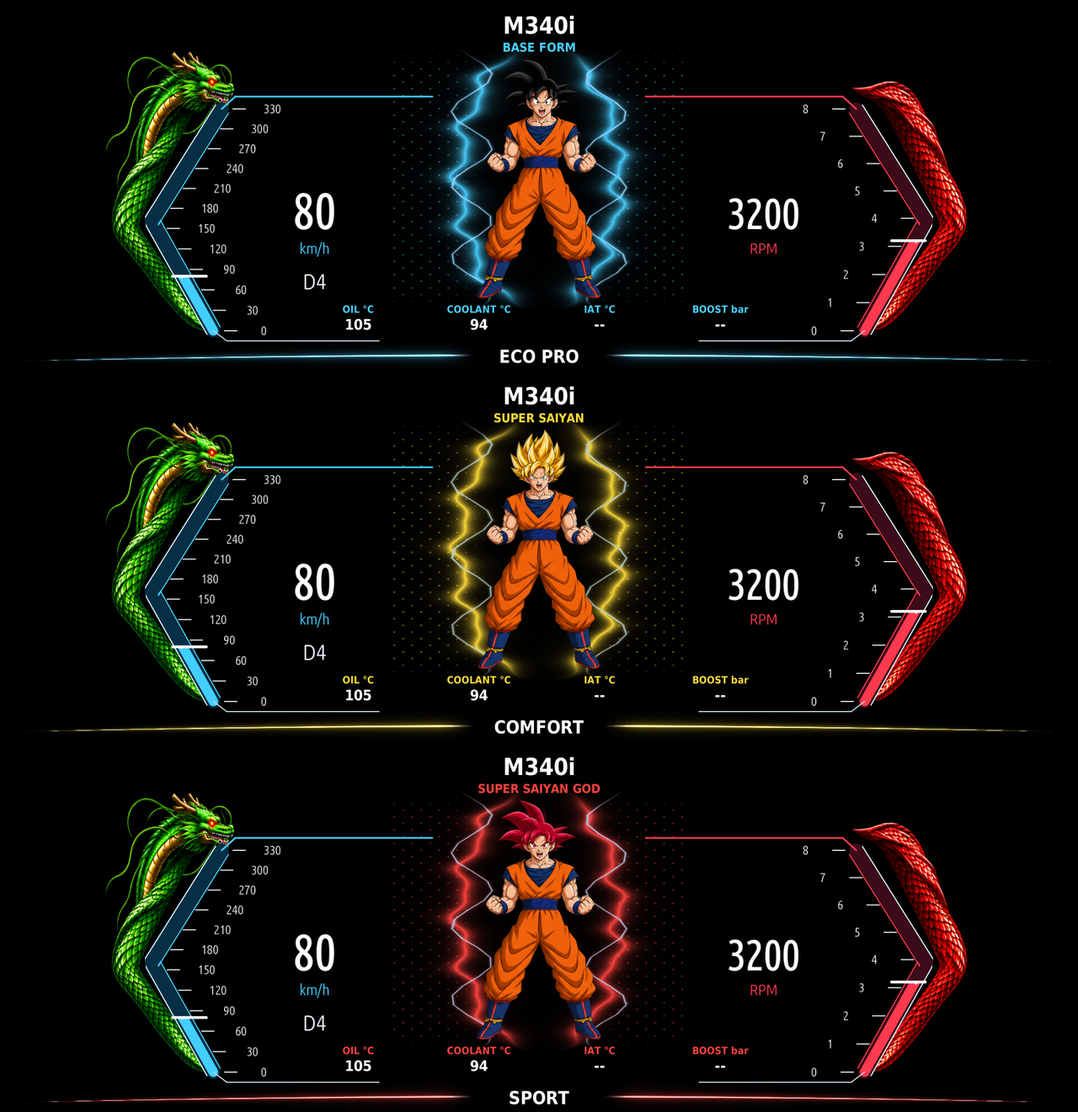
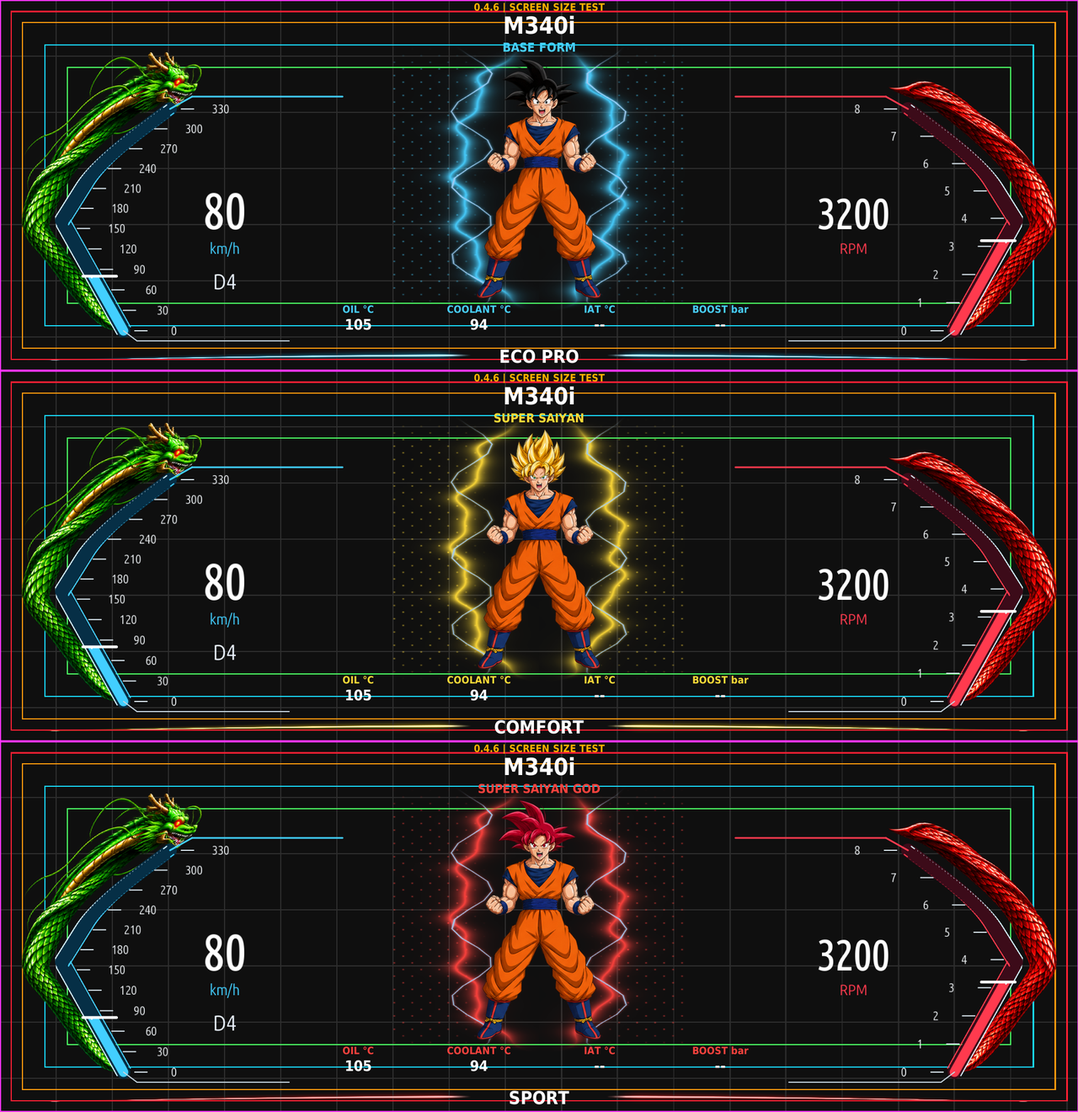
UPLOAD-TO-REPO

Changed region(s): [[0.0, 0.0, 1.0, 1.0], [0.7188, 0.0932, 0.75, 0.1242], [0.5, 0.7144, 0.5312, 0.7455]]

diff --git a/kit/tools/test_dragon_super.js b/kit/tools/test_dragon_super.js
@@ -12,16 +12,15 @@ function inkClearance(x,y) {
  }
  return inside?nearest:-nearest;
 }
-function assertPhotoBezel(layers) {
+// This build deliberately probes outside the old photo-safe envelope. Validate
+// the actual renderer surface, not an unconfirmed physical mask.
+function assertProbeBounds(layers) {
  for(const l of layers){
-  if(l.kind!=='image'||!l.rgba)continue;
-  assert.equal(l.w,l.iw,'bezel test requires native-size pixels');assert.equal(l.h,l.ih);
-  let nearest=Infinity;
-  for(let y=0;y<l.ih;y++)for(let x=0;x<l.iw;x++){
-   if(l.rgba[(y*l.iw+x)*4+3]<PROFILE.alphaThreshold)continue;
-   nearest=Math.min(nearest,inkClearance(l.x+x+.5,l.y+y+.5));
+  assert(l.x>=0&&l.y>=0&&l.x+l.w<=1920&&l.y+l.h<=660,'probe touched native BMW status row or escaped the panel');
+  if(l.kind==='image'){
+   assert.equal(l.w,l.iw,'ruler must use native pixels');assert.equal(l.h,l.ih);
+   if(l.rgba)assert.equal(l.rgba.length,l.iw*l.ih*4);
   }
-  assert(nearest>=PROFILE.minimumInkClearance,'opaque artwork crosses the photo-derived clearance envelope: '+nearest.toFixed(2)+' px');
  }
 }
 const wait=ms=>new Promise(r=>setTimeout(r,ms));
@@ -120,6 +119,23 @@ hu.start();
  assert.deepEqual([full.x,full.y,full.w,full.h],[0,0,1920,660]);
  const gauges=dash.widgets.get('display').w.parts.filter(p=>p.type==='bmwgauge');
  assert.deepEqual(gauges.map(p=>p.signal),['speed','rpm'],'full design must redraw both side gauges');
+ assert.deepEqual(gauges.map(p=>[p.x+20,p.y,p.w,p.h,p.wideProbe]),[[20,80,600,535,true],[1300,80,600,535,true]],'extent probe did not spread the gauges at native size');
+ assert.equal(dash.client.layers.get(dash.widgets.get('frame').ref).uniforms.u_screenGuide[0],1);
+ hu.settings.set('screenGuide','off');
+ assert.equal(dash.client.layers.get(dash.widgets.get('frame').ref).uniforms.u_screenGuide[0],0);
+ hu.settings.set('screenGuide','grid');
+ assert(!dash.widgets.has('goku'),'ruler-only mode kept artwork over its coordinate labels');
+ assert(dash.widgets.get('display').w.parts.some(p=>p.text==='X1800'));
+ assertProbeBounds(Array.from(dash.client.layers.values()));
+ assert(!dash.client.refused.length,dash.client.refused.join());
+ assert(FakeClient.memory()<=16*1024*1024,'ruler-only mode exceeded memory');
+ const rulerParts=dash.widgets.get('display').w.parts;
+ for(let i=0;i<rulerParts.length;i++)for(let j=i+1;j<rulerParts.length;j++){
+  const a=rulerParts[i],b=rulerParts[j];
+  assert(a.x+a.w<=b.x||b.x+b.w<=a.x||a.y+a.h<=b.y||b.y+b.h<=a.y,'ruler coordinate labels overlap: '+a.id+' / '+b.id);
+ }
+ if(process.env.GOKU_CAPTURE)fs.writeFileSync(path.join(ROOT,'dist/goku-ruler-snapshot.json'),JSON.stringify({layers:Array.from(dash.client.layers.values()).map(l=>Object.assign({},l,{rgba:l.rgba?l.rgba.toString('base64'):undefined}))}));
+ hu.settings.set('screenGuide','overlay');
  // Rectangle updates replace pixels; overlapping the dragon with a different
  // part would erase its head or leave fragments after a speed/gear change.
  const parts=dash.widgets.get('display').w.parts;
@@ -191,7 +207,7 @@ hu.start();
     assert(!instance.client.refused.length,instance.client.refused.join());
     assert(instance.client.layers.size<=8);
     if(instance===dash&&style==='performance')assert(Array.from(instance.client.layers.values()).every(l=>l.y+l.h<=660),'covered native BMW status strip');
-    if(instance===dash&&style==='performance')assertPhotoBezel(Array.from(instance.client.layers.values()));
+    if(instance===dash&&style==='performance')assertProbeBounds(Array.from(instance.client.layers.values()));
    }
    if(snapshots)snapshots.push({style,mode,pedal,dataState:'live',layers:Array.from(dash.client.layers.values()).map(l=>Object.assign({},l,{rgba:l.rgba?l.rgba.toString('base64'):undefined}))});
    for(const key of ['knock','heat','boost','fuel','afr','multi']){
@@ -211,7 +227,7 @@ hu.start();
  // healthy stream. This includes the real amber status text and -- readouts.
  if(snapshots)for(const mode of ['eco','comfort','sport']){
   hud.driveMode=mode;hud._rebuild();dash._rebuild();dash._tick();await wait(270);
-  assertPhotoBezel(Array.from(dash.client.layers.values()));
+  assertProbeBounds(Array.from(dash.client.layers.values()));
   snapshots.push({style:'performance',mode,pedal:0,dataState:'missing',layers:Array.from(dash.client.layers.values()).map(l=>Object.assign({},l,{rgba:l.rgba?l.rgba.toString('base64'):undefined}))});
  }
  // A panel yields all content to BMW popups, and restores it afterwards.
@@ -220,7 +236,8 @@ hu.start();
  if(snapshots)fs.writeFileSync(path.join(ROOT,'dist/goku-test-snapshots.json'),JSON.stringify(snapshots));
  hu.settings.set('screens','off');await wait(300);
  assert(instances.every(x=>x.activeName==='off'));
+ assert(instances.every(x=>x.client.layers.size===0),'Off left test layers on screen');
  assert(!messages.some(s=>/missing|unusable|failed|wrong|refused|no glyph/.test(s)),messages.join(' | '));
- console.log('PASS native-size photo-fit layout ignores legacy 90/95/100%, non-overlapping canvases, 660px cover, missing-data captures, alert migration, AFR regressions, modes, animation, reconnect, renderer budgets, BMW popup yield and Off');
+ console.log('PASS 0.4.6 native-pixel extent probe, overlay toggle and ruler-only view; layout ignores legacy 90/95/100%, non-overlapping canvases, 660px cover, missing-data captures, alert migration, AFR regressions, modes, animation, reconnect, renderer budgets, BMW popup yield and Off');
  process.exit(0);
 })().catch(e=>{console.error(e.stack,messages);process.exit(1)});

diff --git a/apps/dragon_super/dragon_gauges.js b/apps/dragon_super/dragon_gauges.js
@@ -9,25 +9,33 @@ const RAIL = [[200, 509], [90, 313], [215, 114]];
 const LENGTHS = RAIL.slice(1).map((p,i)=>Math.hypot(p[0]-RAIL[i][0],p[1]-RAIL[i][1])), TOTAL = LENGTHS[0]+LENGTHS[1];
 const labelCentres = new Map();
 const artwork = new Map();
-function guard(rpm,w,h) {
-    const key=(rpm?'red':'green')+':'+w+'x'+h;
+function shoulder(y) {
+    const t=Math.max(0,Math.min(1,y/250));
+    return 120*(1-t*t*(3-2*t));
+}
+function guard(rpm,w,h,wide) {
+    const key=(rpm?'red':'green')+':'+w+'x'+h+':'+wide;
     if(artwork.has(key))return artwork.get(key);
     const image=data.json('gauges/'+(rpm?'red':'green')+'.json'),src=Buffer.from(image.rgba||'','base64');
     if(image.w!==WIDTH||image.h!==HEIGHT||src.length!==WIDTH*HEIGHT*4)throw Error('Missing or invalid dragon guard artwork');
     const pixels=Buffer.alloc(w*h*4);
     for(let y=0;y<h;y++)for(let x=0;x<w;x++){
-        const si=(Math.min(HEIGHT-1,Math.floor((y+.5)*HEIGHT/h))*WIDTH+Math.min(WIDTH-1,Math.floor((x+.5)*WIDTH/w)))*4;
+        const sy=Math.min(HEIGHT-1,Math.floor((y+.5)*HEIGHT/h));
+        const sx=Math.floor((x+.5)*WIDTH/w-(wide?(rpm?-1:1)*shoulder(sy):0));
+        if(sx<0||sx>=WIDTH)continue;
+        const si=(sy*WIDTH+sx)*4;
         src.copy(pixels,(y*w+x)*4,si,si+4);
     }
     // The three production sizes plus small verification renders stay bounded.
     if(artwork.size>=6)artwork.delete(artwork.keys().next().value);
     artwork.set(key,pixels);return pixels;
 }
-function point(ratio,inset,mirror) {
+function point(ratio,inset,mirror,wide) {
     const dist=Math.max(0,Math.min(1,ratio))*TOTAL, i=dist<=LENGTHS[0]?0:1;
     const t=(dist-(i?LENGTHS[0]:0))/LENGTHS[i], a=RAIL[i],b=RAIL[i+1];
-    const x=a[0]+(b[0]-a[0])*t-(b[1]-a[1])/LENGTHS[i]*inset;
+    let x=a[0]+(b[0]-a[0])*t-(b[1]-a[1])/LENGTHS[i]*inset;
     const y=a[1]+(b[1]-a[1])*t+(b[0]-a[0])/LENGTHS[i]*inset;
+    if(wide)x+=shoulder(y);
     return [mirror?600-x:x,y];
 }
 // Canvas.text takes a font baseline, not an ink centre. Align the actual
@@ -51,8 +59,8 @@ function labelBaseline(text,centre,size) {
 }
 function paint(part,raw,theme,gear) {
     const cv=new Canvas(part.w,part.h), progress=new Canvas(part.w,part.h);
-    const rpm=part.signal==='rpm',valid=Number.isFinite(raw);
-    cv.d.set(guard(rpm,part.w,part.h));
+    const rpm=part.signal==='rpm',valid=Number.isFinite(raw),wide=part.wideProbe===true;
+    cv.d.set(guard(rpm,part.w,part.h,wide));
     const value=valid?Math.max(0,Math.min(part.max,raw)):0,ratio=value/part.max;
     const c=rpm?'#ff3a4e':'#42cfff',direction=rpm?-1:1;
     const scale=p=>[p[0]*part.w/WIDTH,p[1]*part.h/HEIGHT];
@@ -60,16 +68,16 @@ function paint(part,raw,theme,gear) {
     const line=(a,b,w,color)=>stroke(cv,a,b,w,color);
     for(let i=0;i<96;i++) {
         const a=i/96,b=(i+1)/96;
-        line(point(a,0,rpm),point(b,0,rpm),24,rpm?'#3c0b19':'#062f46');
-        line(point(a,-13,rpm),point(b,-13,rpm),2,'#d8f4ff');
-        line(point(a,14,rpm),point(b,14,rpm),2,c);
+        line(point(a,0,rpm,wide),point(b,0,rpm,wide),24,rpm?'#3c0b19':'#062f46');
+        line(point(a,-13,rpm,wide),point(b,-13,rpm,wide),2,'#d8f4ff');
+        line(point(a,14,rpm,wide),point(b,14,rpm,wide),2,c);
         if(valid&&a<ratio) {
             const end=Math.min(b,ratio);
-            stroke(progress,point(a,0,rpm),point(end,0,rpm),17,c);
-            stroke(progress,point(a,-3,rpm),point(end,-3,rpm),3,'#ecfbff');
+            stroke(progress,point(a,0,rpm,wide),point(end,0,rpm,wide),17,c);
+            stroke(progress,point(a,-3,rpm,wide),point(end,-3,rpm,wide),3,'#ecfbff');
         }
     }
-    const anchor=point(ratio,0,rpm);
+    const anchor=point(ratio,0,rpm,wide);
     if(valid&&value>0) {
         // Rounded stroke caps must not make the coloured bar lead the needle.
         const cut=Math.max(0,Math.min(part.h,Math.ceil(anchor[1]*part.h/HEIGHT)));
@@ -77,7 +85,7 @@ function paint(part,raw,theme,gear) {
     }
     // Keep decorative caps away from the 0 and maximum labels instead of
     // moving those labels away from their actual values.
-    const top=point(1,0,rpm),upper=[rpm?361:239,92];
+    const top=point(1,0,rpm,wide),upper=[rpm?361-(wide?shoulder(92):0):239+(wide?shoulder(92):0),92];
     line(top,upper,3,c);line(upper,[rpm?10:590,92],3,c);
     const bottom=point(0,0,rpm),lower=[rpm?376:224,527];
     line(bottom,lower,2,'#c4d3de');line(lower,[rpm?105:495,527],2,'#c4d3de');
@@ -85,7 +93,7 @@ function paint(part,raw,theme,gear) {
     for(let n=0;n<=part.max;n+=step)ticks.push(n);
     if(ticks[ticks.length-1]!==part.max)ticks.push(part.max);
     for(const n of ticks) {
-        const p=point(n/part.max,0,rpm),a=[p[0]+direction*20,p[1]],b=[p[0]+direction*42,p[1]];
+        const p=point(n/part.max,0,rpm,wide),a=[p[0]+direction*20,p[1]],b=[p[0]+direction*42,p[1]];
         line(a,b,2,'#dce9f1');
         const text=String(rpm?n/1000:n),size=22*part.h/HEIGHT,cy=p[1]*part.h/HEIGHT;
         cv.text(text,(p[0]+direction*90)*part.w/WIDTH,labelBaseline(text,cy,size),size,'#f1f5f8',{align:'center'});

diff --git a/apps/dragon_super/dragon_hud.js b/apps/dragon_super/dragon_hud.js
@@ -25,6 +25,7 @@ class DragonHud extends Base {
         if (t === 'db:form') return FORMS[this._driveProfile()];
         if (t === 'db:mode') return MODES[this._driveProfile()];
         if (t === 'db:title') return 'GOKU HUD';
+        if (t === 'db:edge') return this.setting('screenGuide') === 'off' ? '' : '0.4.6 | SCREEN SIZE TEST';
         if (t === 'db:boost') return Hud.prototype._token.call(this, 'boost');
         if (t === 'db:iat') { const v = this._raw('iat'); return Number.isFinite(v) ? v.toFixed(0) : '--'; }
         if (t === 'db:data') return this.car.data().demo ? 'DEMO' : Date.now() - this.car.lastCar >= 3000 ? 'NO VEHICLE DATA' : '';
@@ -53,6 +54,8 @@ class DragonHud extends Base {
             if (w.type === 'gokumodebar') {
                 this.client.uniform(ref, 'u_background', [w.background ? 1 : 0]);
                 this.client.uniform(ref, 'u_size', [w.w, w.h]);
+                this.client.uniform(ref, 'u_screenGuide', [w.background && this.setting('screenGuide') !== 'off' ? 1 : 0]);
+                this.client.uniform(ref, 'u_gridOnly', [w.background && this.setting('screenGuide') === 'grid' ? 1 : 0]);
             }
             x.gpuClock = this.client.animate(ref, { property: 'uniform', name: 'u_phase', keys: [[0, 0], [12000, 12]], loop: true });
         }
@@ -99,11 +102,14 @@ class DragonDash extends DragonHud {
     }
     _isCentre() { return this.setting('clusterStyle') !== 'performance'; }
     _layoutName() { return ['dash', 'both'].includes(this._screens()) ? this._driveProfile() : 'off'; }
-    _layoutFile(n) { const t = this._isCentre() ? 'centre' : 'dash'; return n === 'alert' ? 'db_' + t + '_alert' : 'db_' + t + '_' + n; }
+    _layoutFile(n) {
+        const t = this._isCentre() ? 'centre' : 'dash';
+        if (n !== 'alert' && t === 'dash' && this.setting('screenGuide') === 'grid') return 'db_probe_' + n;
+        return n === 'alert' ? 'db_' + t + '_alert' : 'db_' + t + '_' + n;
+    }
     _layerFields() {
         if (this.target === 'map') return { contend: 1, guide_hold: 0 };
-        // 0.4.5 places full-size artwork within the measured bezel envelope.
-        // Old saved 90/95% values must not rescale this new geometry.
+        // Native-pixel extent probe: saved percentage fit must not move the ruler.
         return {};
     }
     _popupSlot() { return 0x202; }

diff --git a/apps/dragon_super/goku_shaders.js b/apps/dragon_super/goku_shaders.js
@@ -37,6 +37,8 @@ uniform float u_phase;
 uniform float u_charge;
 uniform float u_background;
 uniform vec2 u_size;
+uniform float u_screenGuide;
+uniform float u_gridOnly;
 void main() {
     vec2 p = v_uv;
     if (u_background > 0.5) {
@@ -58,6 +60,23 @@ void main() {
     float a = min(1.0, (core + glow) * gap * ends * pulse);
     if (p.y < 0.0 || p.y > 1.0) a = 0.0;
     vec3 c = mix(u_color, vec3(1.0), core * 0.65);
-    gl_FragColor = u_background > 0.5 ? vec4(c * a, 1.0) : vec4(c, a);
+    vec3 outColor = c * a;
+    if (u_background > 0.5 && u_screenGuide > 0.5) {
+        vec2 px = v_uv * u_size;
+        // The guide is panel-native and independent of every artwork canvas.
+        vec2 edge = min(px, u_size - px);
+        float dEdge = min(edge.x, edge.y);
+        vec2 cell = mod(px, 100.0);
+        float grid = 1.0 - smoothstep(0.7, 1.5, min(min(cell.x, 100.0-cell.x), min(cell.y, 100.0-cell.y)));
+        outColor = max(outColor, vec3(0.06 + 0.12 * grid));
+        if (u_gridOnly > 0.5) outColor = vec3(0.08 + 0.18 * grid);
+        // Rectangles inset 20 / 40 / 80 / 120 px from the 1920x660 app area.
+        if (abs(dEdge-20.0) < 1.5) outColor = vec3(1.0,0.12,0.20);
+        if (abs(dEdge-40.0) < 1.5) outColor = vec3(1.0,0.60,0.05);
+        if (abs(dEdge-80.0) < 1.5) outColor = vec3(0.1,0.85,1.0);
+        if (abs(dEdge-120.0) < 1.5) outColor = vec3(0.3,1.0,0.4);
+        if (dEdge < 2.0) outColor = vec3(1.0,0.2,1.0);
+    }
+    gl_FragColor = u_background > 0.5 ? vec4(outColor, 1.0) : vec4(c, a);
 }`;
 module.exports = { aura, modebar };

diff --git a/kit/tools/test_dragon_gauges.js b/kit/tools/test_dragon_gauges.js
@@ -33,9 +33,9 @@ function inkCentre(args,w,h) {
  assert(last>=first,'label rendered no ink');return (first+last+1)/2;
 }
 let count=0;
-for(const [signal,max,step]of [['speed',330,30],['rpm',8000,1000]])for(const [w,h]of [[600,535],[300,268]]){
+for(const [signal,max,step]of [['speed',330,30],['rpm',8000,1000]])for(const [w,h]of [[600,535],[300,268]])for(const wideProbe of [false,true]){
  for(let value=0;value<=max;value+=step){
-  lines=[];texts=[];paint({signal,max,w,h},value,null,'D4');
+  lines=[];texts=[];paint({signal,max,w,h,wideProbe},value,null,'D4');
   const needle=lines.find(l=>l.args[5]==='#ffffff'&&Math.abs(l.args[4]-5*h/535)<1e-6);
   assert(needle,signal+' missing needle');const ny=needle.args[1];
   assert(Math.abs(ny-needle.args[3])<1e-6,'needle is not horizontal');

diff --git a/kit/tools/make_goku_layouts.py b/kit/tools/make_goku_layouts.py
@@ -5,7 +5,8 @@ from pathlib import Path
 ROOT=Path(__file__).resolve().parents[2]
 APP=ROOT/'apps/dragon_super'
 PROFILE=json.loads((ROOT/'assets/goku-hud/g20-id7-display-profile.json').read_text())
-RECT=PROFILE['layout']
+PROBE=json.loads((ROOT/'assets/goku-hud/g20-id7-extent-test.json').read_text())
+RECT=dict(PROFILE['layout']);RECT.update(PROBE['layout'])
 OUT=APP/'hud/layouts'
 OUT.mkdir(parents=True,exist_ok=True)
 def text(id,x,y,w,h,value,font='db22',color='white'):
@@ -21,10 +22,10 @@ for mode in ['eco','comfort','sport']:
  dx,dy,dw,dh=RECT['display']
  def local(name):
   x,y,w,h=RECT[name];return [x-dx,y-dy,w,h]
- parts=[text('brand',*local('brand'),'M340i','db42'),text('form',*local('form'),'{{db:form}}','db22','fg')]
+ parts=[text('edge',700-dx,2-dy,520,20,'{{db:edge}}','db18','amber'),text('brand',*local('brand'),'M340i','db42'),text('form',*local('form'),'{{db:form}}','db22','fg')]
  for name,signal,maximum in [('speedGauge','speed',330),('rpmGauge','rpm',8000)]:
   x,y,w,h=local(name)
-  parts.append(dict(id=name.lower(),type='bmwgauge',x=x,y=y,w=w,h=h,signal=signal,max=maximum))
+  parts.append(dict(id=name.lower(),type='bmwgauge',x=x,y=y,w=w,h=h,signal=signal,max=maximum,wideProbe=True))
  bx,by,bw,bh=RECT['bottom']
  bottom=[]
  for i,(label,value) in enumerate([('OIL °C','{{oil}}'),('COOLANT °C','{{coolant}}'),('IAT °C','{{db:iat}}'),('BOOST bar','{{db:boost}}')]):
@@ -36,6 +37,14 @@ for mode in ['eco','comfort','sport']:
   effect('aura','gokuaura',*RECT['aura'],1),canvas('display',dx,dy,dw,dh,parts),
   effect('goku','gokucharacter',*RECT['goku'],4),canvas('mode',bx,by,bw,bh,bottom,5)]
  write('db_dash_'+mode,mode,widgets)
+ # A separate ruler-only view exposes the whole test surface without artwork.
+ labels=[text('title',560,35,800,32,'GOKU HUD 0.4.6 | SCREEN SIZE TEST','db22'),
+  text('size',600,76,720,28,'1920 x 660 | GRID 100 px','db22'),
+  text('legend',430,540,1060,24,'RED 20 | ORANGE 40 | CYAN 80 | GREEN 120','db18'),
+  text('native',540,630,840,24,'BMW STATUS ROW STARTS AT Y660','db22')]
+ for x in range(200,1920,200): labels.append(text('x'+str(x),x-65,250,130,26,'X'+str(x),'db18'))
+ for y in range(100,601,100): labels.append(text('y'+str(y),1535 if y==100 else 895,y-10,130,24,'Y'+str(y),'db18'))
+ write('db_probe_'+mode,mode,[effect('frame','gokumodebar',0,0,1920,660,0,background=True,keepInAlert=True),canvas('display',0,0,1920,660,labels)])
  centre=[effect('aura','gokuaura',354,50,380,360,1),effect('goku','gokucharacter',424,58,240,340,4),
   effect('modebar','gokumodebar',150,427,788,50,1),
   canvas('display',244,0,600,480,[text('brand',0,0,600,34,'M340i','db26'),text('form',0,35,600,28,'{{db:form}}','db18','fg'),
@@ -58,8 +67,8 @@ ca['widgets'][0].update(x=244,y=190,w=600,h=180)
 # The manifest owns the release version; rebaking must not downgrade it.
 spec=json.loads((APP/'app.json').read_text());spec.update(title='Goku HUD',description='Animated Goku drive-mode cluster and windshield HUD for BMW iDrive 7',iconGlyph='GOKU')
 spec['credits']['title']='Goku HUD';spec['screens'][0]['title']='Goku HUD';spec['config']['statusName']='Goku HUD'
-spec['settings']=[s for s in spec['settings'] if s['key'] not in ('clusterStyle','clusterFit','animationOn')]
-spec['settings'][1:1]=[dict(key='clusterStyle',label='Cluster design',type='choice',default='performance',reset=1,options=[['performance','Goku Performance (full cluster)'],['oem','BMW gauges + Goku (centre)']]),dict(key='animationOn',label='Character animation',type='bool',default=True)]
+spec['settings']=[s for s in spec['settings'] if s['key'] not in ('clusterStyle','clusterFit','animationOn','screenGuide')]
+spec['settings'][1:1]=[dict(key='screenGuide',label='Screen size test (0.4.6)',type='choice',default='overlay',options=[['overlay','Wide art + ruler'],['grid','Ruler only'],['off','Wide art only']]),dict(key='clusterStyle',label='Cluster design',type='choice',default='performance',reset=1,options=[['performance','Goku Performance (full cluster)'],['oem','BMW gauges + Goku (centre)']]),dict(key='animationOn',label='Character animation',type='bool',default=True)]
 for setting in spec['settings']:
  if setting['key']=='alertsOn': setting.update(label='Custom full-screen alerts',default=False,reset=1)
  if setting['key']=='alertPreview': setting.update(default='off',reset=1)

diff --git a/kit/tools/render_goku_preview.py b/kit/tools/render_goku_preview.py
@@ -71,4 +71,19 @@ for mode in ['eco','comfort','sport']:
 contact=Image.new('RGB',(1280,1320),'black')
 for i,image in enumerate(outputs): contact.paste(image.convert('RGB').resize((1280,440),Image.Resampling.LANCZOS),(0,i*440))
 contact.save(ROOT/'apps/dragon_super/preview.png')
+probe_file=ROOT/'dist/goku-ruler-snapshot.json'
+if probe_file.exists():
+ probe=json.loads(probe_file.read_text())
+ ruler=Image.new('RGBA',(1920,660),'black')
+ for layer in sorted(probe['layers'],key=lambda l:l['z']):
+  part=effect(layer) if layer['kind']=='effect' else Image.frombytes('RGBA',(layer['iw'],layer['ih']),base64.b64decode(layer['rgba']))
+  ruler.alpha_composite(part,(layer['x'],layer['y']))
+ # Actual GLES output must retain native coordinates and the labelled colours.
+ for x,expected in [(20,(255,31,51)),(40,(255,153,13)),(80,(26,217,255)),(120,(77,255,102))]:
+  actual=ruler.getpixel((x,330))[:3]
+  assert max(abs(a-b) for a,b in zip(actual,expected))<=3,(x,actual)
+ frame=next(l for l in probe['layers'] if l['kind']=='effect')
+ clean=dict(frame,uniforms=dict(frame['uniforms'],u_screenGuide=[0],u_gridOnly=[0]))
+ assert effect(clean).getpixel((20,330))[:3]==(0,0,0),'turning off ruler left coloured guides'
+ ruler.convert('RGB').save(ROOT/'dist/goku-screen-ruler.png')
 print('PASS GLSL ES shaders compiled, linked and rendered in EGL '+str(a.value)+'.'+str(b.value)+'; three native Performance previews saved')

diff --git a/apps/dragon_super/README.md b/apps/dragon_super/README.md
@@ -1,4 +1,4 @@
-# Goku HUD 0.4.5
+# Goku HUD 0.4.6 — screen extent test
 
 BMW iDrive 7 / rooted MGU app. Installed identity remains `dragon_super`, so this updates Dragon Ball Super in place. Original EVAHUD / cluster-render copyright and licence notices remain in LICENSE and NOTICE.
 
@@ -14,7 +14,33 @@ The charging stance starts at 25% pedal, holds above 15%, and returns to idle be
 
 The default cluster design, **Goku Performance (full cluster)**, uses the same whole-cluster `panel` target as the EVA full designs: a green dragon around the blue speed scale and a red scale guard around the RPM scale, with a larger Goku in the middle and a long symmetric pointed mode bar. Versions 0.4.1 and later reset the saved 0.4.0 centre-only default once, so existing installations receive the full design. Later manual selections remain saved. **BMW gauges + Goku (centre)** is the optional native `map` slot design under BMW content; it intentionally leaves the original side gauges in place. The full design's cover stops at y=660 of the 1920×720 panel, leaving the lower native status area, and uses the inherited popup-yield mechanism. The menu also offers Windshield HUD, Cluster + HUD and Off. Off releases all app layers. The y=660 cover comes from the earlier photograph measurement; physical bezel clearance, native fuel/status visibility and BMW warning/popup behavior still require parked-car verification.
 
-## 0.4.5: native-size layout within the photographed bezel
+
+## 0.4.6: quick sizing build, before the final anime redesign
+
+This build is for measuring the owner's actual visible screen. It uses the
+existing artwork, moves each 600×535 gauge 160 native pixels outward from
+0.4.5 (left x=20, right x=1300, y=80), and bends only the top 250 px of each
+ornament/rail inward by up to 120 px. Goku and the main fonts keep their size.
+The final anime/Shenron/Dragon Ball artwork has not been substituted yet.
+
+**Screen size test (0.4.6)** defaults to **Wide art + ruler**. Choose **Ruler only**
+for an unobstructed measurement photo, or **Wide art only** to hide the guides.
+The test applies to the full Performance cluster. It does not change the native
+BMW centre slot or windshield HUD. The grid is 100 px; border insets from the
+1920×660 application area are red 20, orange 40, cyan 80 and green 120 px. The
+outermost 2 px are magenta. The app still reserves native BMW pixels y≥660.
+The guide is drawn in the existing background effect: no extra renderer layer
+or image buffer. Ruler-only replaces the artwork with one native-size labelled
+canvas. Popup yielding and Mode > Off continue to release the display.
+
+These guides deliberately extend outside the old conservative photo-safe
+polygon. Clipped corners/lines are measurement evidence; this is not a claim
+that all 1920×660 pixels are visible. The original photo profile is retained.
+The separate `assets/goku-hud/g20-id7-extent-test.json` records this experiment.
+Take full-cluster photographs while parked, once in Ruler only and once in
+Wide art + ruler, with the native BMW bottom row and all physical edges visible.
+
+## 0.4.5 history: native-size layout within the photographed bezel
 
 The owner's G20 M340i photograph showed that a rectangular layer fitting the
 1920×720 panel could still lose the dragon's horns and the upper right guard

diff --git a/docs/goku-hud/G20-ID7-0.4.6-size-test.md b/docs/goku-hud/G20-ID7-0.4.6-size-test.md
@@ -1,0 +1,22 @@
+# Goku HUD 0.4.6 — ทดสอบขอบจอจริง
+
+รุ่นทดลองขนาดก่อนลงรายละเอียดภาพอนิเมะใหม่ ใช้ภาพเดิมและขยับเกจออกข้างฝั่งละ 160 px จาก 0.4.5 พร้อมโค้งส่วนหัวหลบมุมบน
+ไม่ย่อทั้งภาพ ตัวละคร ฟอนต์ และกล่องเกจยังขนาดเดิม
+
+หลังอัปเดต เปิด Apps > Goku HUD ตั้ง Mode เป็น Instrument cluster และ Cluster design เป็น Goku Performance (full cluster)
+เลือก Screen size test (0.4.6):
+
+- Wide art + ruler: ภาพมังกรเดิมที่ขยายระยะวางออกด้านข้าง พร้อมกรอบสี (ค่าเริ่มต้น)
+- Ruler only: พื้นเทา กริด และพิกัด สำหรับถ่ายรูปวัดขอบให้ชัด
+- Wide art only: ซ่อนกรอบ ดูตำแหน่งภาพอย่างเดียว
+
+กริดช่องละ 100 px จุดกำเนิดอยู่มุมซ้ายบน เส้นพิกัดตรงกับผืนแอป 1920×660 และเว้นแถว BMW y=660…719
+กรอบชมพูชิดขอบแอป 2 px / แดงห่างขอบ 20 / ส้ม 40 / ฟ้า 80 / เขียว 120 px
+ระยะด้านล่างนับจาก y=660 ไม่ใช่จากขอบแผง 720 px
+เส้นที่หายตามมุมโค้งเป็นสิ่งที่ต้องการวัด ไม่ใช่ผลยืนยันว่าขอบนี้พอดีแล้ว
+
+จอดรถแล้วถ่ายเต็มจอ 2 รูป: Ruler only และ Wide art + ruler ให้เห็นกรอบจอจริงกับแถว BMW ด้านล่างด้วย
+Mode > Off คืนพื้นที่ให้ BMW
+
+รุ่นนี้ยังใช้ภาพมังกรและตัวละครเดิมสำหรับวัดขอบ ไม่ใช่ภาพคอนเซปต์อนิเมะใหม่ ไม่มีดราก้อนบอลเพิ่มในตัวทดสอบ
+บันทึกโปรไฟล์เก่าไว้ ไม่ทับข้อมูลวัดเดิม ตัวทดสอบอยู่ assets/goku-hud/g20-id7-extent-test.json
